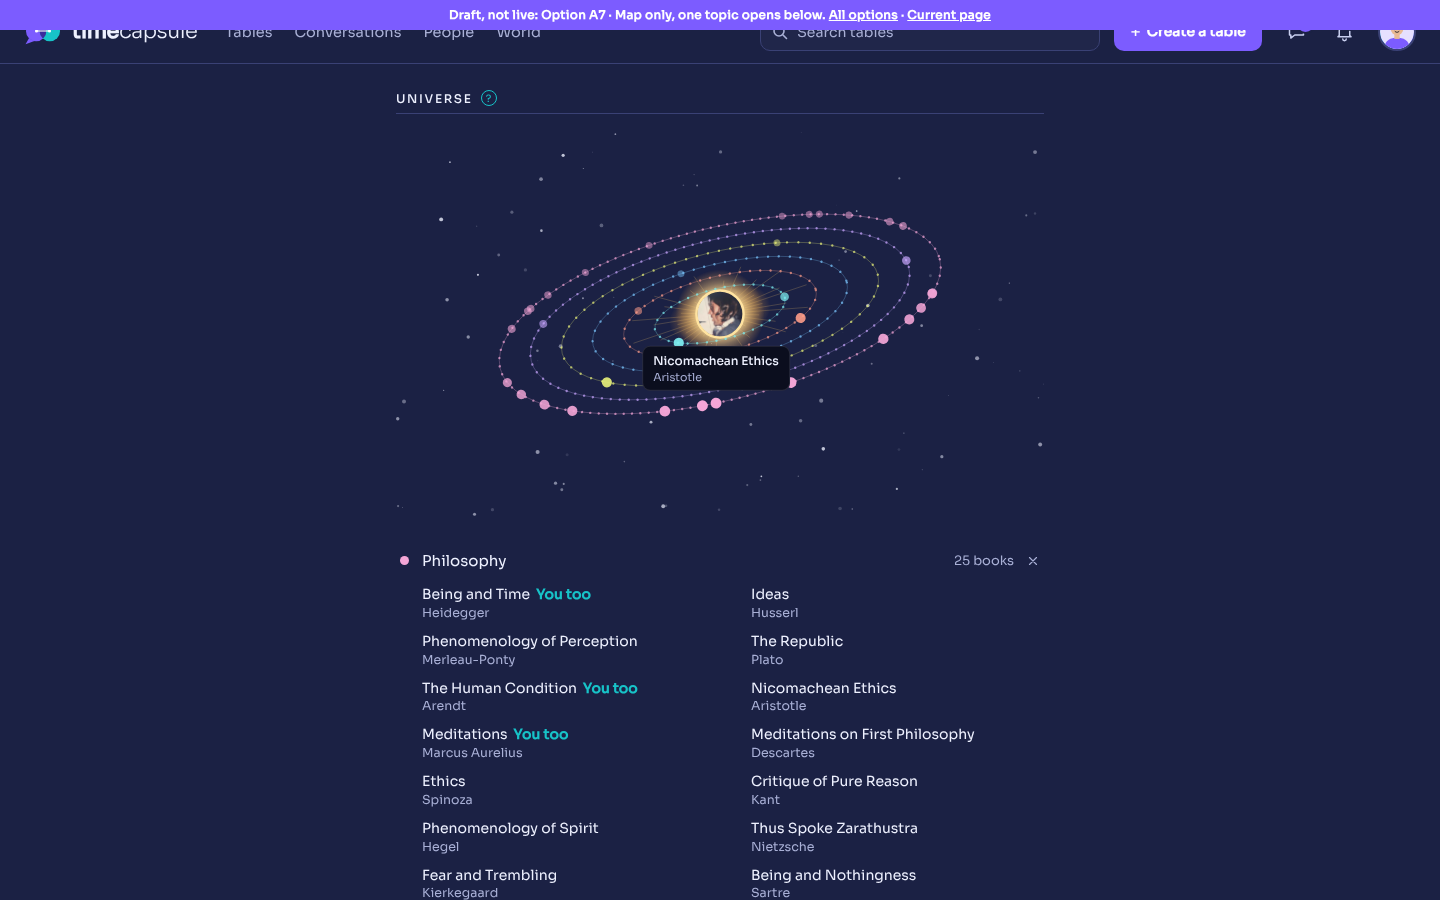
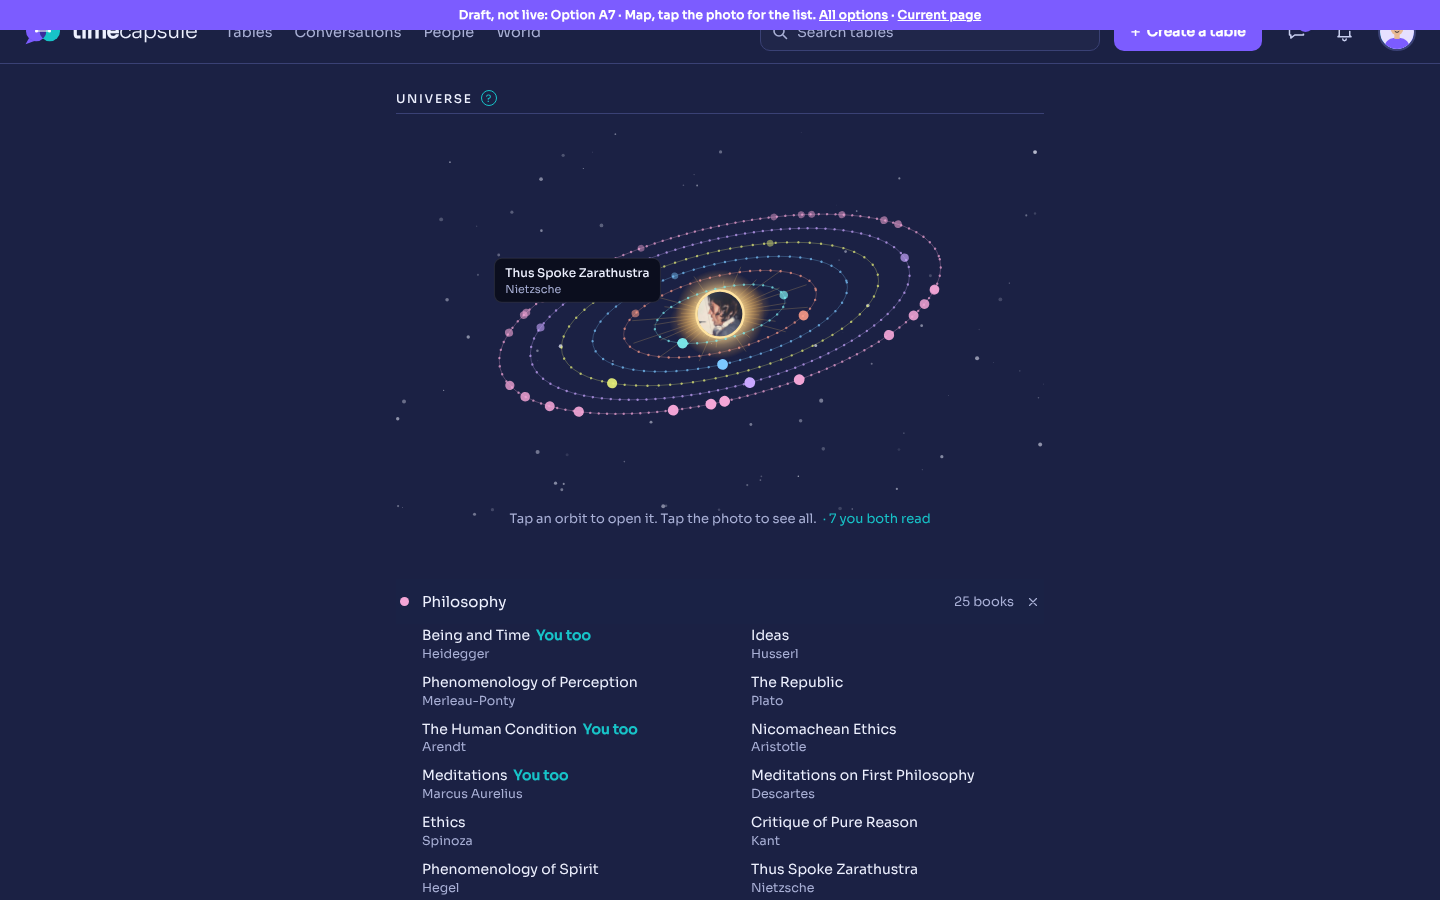
Profile option A7: no page jump when a planet is tapped, more room under the hint
Claude-Session: https://claude.ai/code/session_018eq6NgwUiJJnwPF1moeBy1

diff --git a/profile-options/option-a7.html b/profile-options/option-a7.html
@@ -782,10 +782,9 @@ body .lbtabs .mix:has(.filt:not([hidden])){display:none}
 .opt-rows{border-top:0;margin-top:6px}
 .opt-rows>.opt-g{border-bottom:0}
 .opt-row[aria-expanded=true] svg{transform:rotate(0)!important}
-.opt-hint{margin:8px 0 0;text-align:center;font-size:13px;color:var(--mute)}
+.opt-hint{margin:-22px 0 34px;position:relative;text-align:center;font-size:13px;color:var(--mute)}
 .opt-hint button{all:unset;cursor:pointer;color:var(--teal);margin-left:6px}
 .opt-hint button:focus-visible{outline:2px solid var(--teal);outline-offset:2px}
-.uni-a7open .opt-hint{display:none}
 #uni .sunav{cursor:pointer}
 #uni .sunav:focus{outline:none}
 .opt-allhead{display:none}
@@ -2270,13 +2269,14 @@ mo.observe(u,{childList:true,subtree:true,attributes:true,attributeFilter:['aria
  // tapping a planet opens its topic row instead of a list inside the map
  function openFrom(g){var lab=g.getAttribute('aria-label')||'',topic=lab.slice(lab.lastIndexOf(', ')+2);
   var li=[...ul.children].find(function(x){return x.dataset.k===topic});if(!li)return;
-  toggle(li,true);li.scrollIntoView({block:'nearest',behavior:matchMedia('(prefers-reduced-motion:reduce)').matches?'auto':'smooth'});
+  toggle(li,true);if(window.__optNoScroll){var r=li.getBoundingClientRect(),vh=innerHeight;if(r.top>vh-80)window.scrollBy(0,r.top-vh+Math.min(220,vh/3))}else li.scrollIntoView({block:'nearest',behavior:matchMedia('(prefers-reduced-motion:reduce)').matches?'auto':'smooth'});
   li.firstChild.classList.remove('opt-flash');void li.offsetWidth;li.firstChild.classList.add('opt-flash')}
  svg.addEventListener('click',function(e){var g=e.target.closest&&e.target.closest('g.bk');if(g){e.stopImmediatePropagation();e.preventDefault();openFrom(g)}},true);
  svg.addEventListener('keydown',function(e){var g=e.target.closest&&e.target.closest('g.bk');if(g&&(e.key==='Enter'||e.key===' ')){e.stopImmediatePropagation();e.preventDefault();openFrom(g)}},true);
 })();
 
 (function(){
+ window.__optNoScroll=1;
  var view=document.getElementById('uniview'),rows=document.querySelector('.opt-rows');if(!view||!rows)return;
  var rb=document.querySelector('.unitog button[data-m="read"]');if(rb&&rb.getAttribute('aria-pressed')!=='true')rb.click();
  var X='<svg viewBox="0 0 24 24" width="14" height="14" fill="none" stroke="currentColor" stroke-width="2" stroke-linecap="round" aria-hidden="true"><path d="M6 6l12 12M18 6L6 18"/></svg>';

diff --git a/profile-options/option-a3.html b/profile-options/option-a3.html
@@ -2245,7 +2245,7 @@ mo.observe(u,{childList:true,subtree:true,attributes:true,attributeFilter:['aria
  // tapping a planet opens its topic row instead of a list inside the map
  function openFrom(g){var lab=g.getAttribute('aria-label')||'',topic=lab.slice(lab.lastIndexOf(', ')+2);
   var li=[...ul.children].find(function(x){return x.dataset.k===topic});if(!li)return;
-  toggle(li,true);li.scrollIntoView({block:'nearest',behavior:matchMedia('(prefers-reduced-motion:reduce)').matches?'auto':'smooth'});
+  toggle(li,true);if(window.__optNoScroll){var r=li.getBoundingClientRect(),vh=innerHeight;if(r.top>vh-80)window.scrollBy(0,r.top-vh+Math.min(220,vh/3))}else li.scrollIntoView({block:'nearest',behavior:matchMedia('(prefers-reduced-motion:reduce)').matches?'auto':'smooth'});
   li.firstChild.classList.remove('opt-flash');void li.offsetWidth;li.firstChild.classList.add('opt-flash')}
  svg.addEventListener('click',function(e){var g=e.target.closest&&e.target.closest('g.bk');if(g){e.stopImmediatePropagation();e.preventDefault();openFrom(g)}},true);
  svg.addEventListener('keydown',function(e){var g=e.target.closest&&e.target.closest('g.bk');if(g&&(e.key==='Enter'||e.key===' ')){e.stopImmediatePropagation();e.preventDefault();openFrom(g)}},true);

diff --git a/profile-options/option-a4.html b/profile-options/option-a4.html
@@ -2264,7 +2264,7 @@ mo.observe(u,{childList:true,subtree:true,attributes:true,attributeFilter:['aria
  // tapping a planet opens its topic row instead of a list inside the map
  function openFrom(g){var lab=g.getAttribute('aria-label')||'',topic=lab.slice(lab.lastIndexOf(', ')+2);
   var li=[...ul.children].find(function(x){return x.dataset.k===topic});if(!li)return;
-  toggle(li,true);li.scrollIntoView({block:'nearest',behavior:matchMedia('(prefers-reduced-motion:reduce)').matches?'auto':'smooth'});
+  toggle(li,true);if(window.__optNoScroll){var r=li.getBoundingClientRect(),vh=innerHeight;if(r.top>vh-80)window.scrollBy(0,r.top-vh+Math.min(220,vh/3))}else li.scrollIntoView({block:'nearest',behavior:matchMedia('(prefers-reduced-motion:reduce)').matches?'auto':'smooth'});
   li.firstChild.classList.remove('opt-flash');void li.offsetWidth;li.firstChild.classList.add('opt-flash')}
  svg.addEventListener('click',function(e){var g=e.target.closest&&e.target.closest('g.bk');if(g){e.stopImmediatePropagation();e.preventDefault();openFrom(g)}},true);
  svg.addEventListener('keydown',function(e){var g=e.target.closest&&e.target.closest('g.bk');if(g&&(e.key==='Enter'||e.key===' ')){e.stopImmediatePropagation();e.preventDefault();openFrom(g)}},true);

diff --git a/profile-options/option-a5.html b/profile-options/option-a5.html
@@ -2258,7 +2258,7 @@ mo.observe(u,{childList:true,subtree:true,attributes:true,attributeFilter:['aria
  // tapping a planet opens its topic row instead of a list inside the map
  function openFrom(g){var lab=g.getAttribute('aria-label')||'',topic=lab.slice(lab.lastIndexOf(', ')+2);
   var li=[...ul.children].find(function(x){return x.dataset.k===topic});if(!li)return;
-  toggle(li,true);li.scrollIntoView({block:'nearest',behavior:matchMedia('(prefers-reduced-motion:reduce)').matches?'auto':'smooth'});
+  toggle(li,true);if(window.__optNoScroll){var r=li.getBoundingClientRect(),vh=innerHeight;if(r.top>vh-80)window.scrollBy(0,r.top-vh+Math.min(220,vh/3))}else li.scrollIntoView({block:'nearest',behavior:matchMedia('(prefers-reduced-motion:reduce)').matches?'auto':'smooth'});
   li.firstChild.classList.remove('opt-flash');void li.offsetWidth;li.firstChild.classList.add('opt-flash')}
  svg.addEventListener('click',function(e){var g=e.target.closest&&e.target.closest('g.bk');if(g){e.stopImmediatePropagation();e.preventDefault();openFrom(g)}},true);
  svg.addEventListener('keydown',function(e){var g=e.target.closest&&e.target.closest('g.bk');if(g&&(e.key==='Enter'||e.key===' ')){e.stopImmediatePropagation();e.preventDefault();openFrom(g)}},true);

diff --git a/profile-options/option-a6.html b/profile-options/option-a6.html
@@ -2254,7 +2254,7 @@ mo.observe(u,{childList:true,subtree:true,attributes:true,attributeFilter:['aria
  // tapping a planet opens its topic row instead of a list inside the map
  function openFrom(g){var lab=g.getAttribute('aria-label')||'',topic=lab.slice(lab.lastIndexOf(', ')+2);
   var li=[...ul.children].find(function(x){return x.dataset.k===topic});if(!li)return;
-  toggle(li,true);li.scrollIntoView({block:'nearest',behavior:matchMedia('(prefers-reduced-motion:reduce)').matches?'auto':'smooth'});
+  toggle(li,true);if(window.__optNoScroll){var r=li.getBoundingClientRect(),vh=innerHeight;if(r.top>vh-80)window.scrollBy(0,r.top-vh+Math.min(220,vh/3))}else li.scrollIntoView({block:'nearest',behavior:matchMedia('(prefers-reduced-motion:reduce)').matches?'auto':'smooth'});
   li.firstChild.classList.remove('opt-flash');void li.offsetWidth;li.firstChild.classList.add('opt-flash')}
  svg.addEventListener('click',function(e){var g=e.target.closest&&e.target.closest('g.bk');if(g){e.stopImmediatePropagation();e.preventDefault();openFrom(g)}},true);
  svg.addEventListener('keydown',function(e){var g=e.target.closest&&e.target.closest('g.bk');if(g&&(e.key==='Enter'||e.key===' ')){e.stopImmediatePropagation();e.preventDefault();openFrom(g)}},true);

diff --git a/profile-options/a3.js b/profile-options/a3.js
@@ -27,7 +27,7 @@
  // tapping a planet opens its topic row instead of a list inside the map
  function openFrom(g){var lab=g.getAttribute('aria-label')||'',topic=lab.slice(lab.lastIndexOf(', ')+2);
   var li=[...ul.children].find(function(x){return x.dataset.k===topic});if(!li)return;
-  toggle(li,true);li.scrollIntoView({block:'nearest',behavior:matchMedia('(prefers-reduced-motion:reduce)').matches?'auto':'smooth'});
+  toggle(li,true);if(window.__optNoScroll){var r=li.getBoundingClientRect(),vh=innerHeight;if(r.top>vh-80)window.scrollBy(0,r.top-vh+Math.min(220,vh/3))}else li.scrollIntoView({block:'nearest',behavior:matchMedia('(prefers-reduced-motion:reduce)').matches?'auto':'smooth'});
   li.firstChild.classList.remove('opt-flash');void li.offsetWidth;li.firstChild.classList.add('opt-flash')}
  svg.addEventListener('click',function(e){var g=e.target.closest&&e.target.closest('g.bk');if(g){e.stopImmediatePropagation();e.preventDefault();openFrom(g)}},true);
  svg.addEventListener('keydown',function(e){var g=e.target.closest&&e.target.closest('g.bk');if(g&&(e.key==='Enter'||e.key===' ')){e.stopImmediatePropagation();e.preventDefault();openFrom(g)}},true);

diff --git a/profile-options/a7.css b/profile-options/a7.css
@@ -7,10 +7,9 @@
 .opt-rows{border-top:0;margin-top:6px}
 .opt-rows>.opt-g{border-bottom:0}
 .opt-row[aria-expanded=true] svg{transform:rotate(0)!important}
-.opt-hint{margin:8px 0 0;text-align:center;font-size:13px;color:var(--mute)}
+.opt-hint{margin:-22px 0 34px;position:relative;text-align:center;font-size:13px;color:var(--mute)}
 .opt-hint button{all:unset;cursor:pointer;color:var(--teal);margin-left:6px}
 .opt-hint button:focus-visible{outline:2px solid var(--teal);outline-offset:2px}
-.uni-a7open .opt-hint{display:none}
 #uni .sunav{cursor:pointer}
 #uni .sunav:focus{outline:none}
 .opt-allhead{display:none}

diff --git a/profile-options/a7.js b/profile-options/a7.js
@@ -1,4 +1,5 @@
 (function(){
+ window.__optNoScroll=1;
  var view=document.getElementById('uniview'),rows=document.querySelector('.opt-rows');if(!view||!rows)return;
  var rb=document.querySelector('.unitog button[data-m="read"]');if(rb&&rb.getAttribute('aria-pressed')!=='true')rb.click();
  var X='<svg viewBox="0 0 24 24" width="14" height="14" fill="none" stroke="currentColor" stroke-width="2" stroke-linecap="round" aria-hidden="true"><path d="M6 6l12 12M18 6L6 18"/></svg>';
